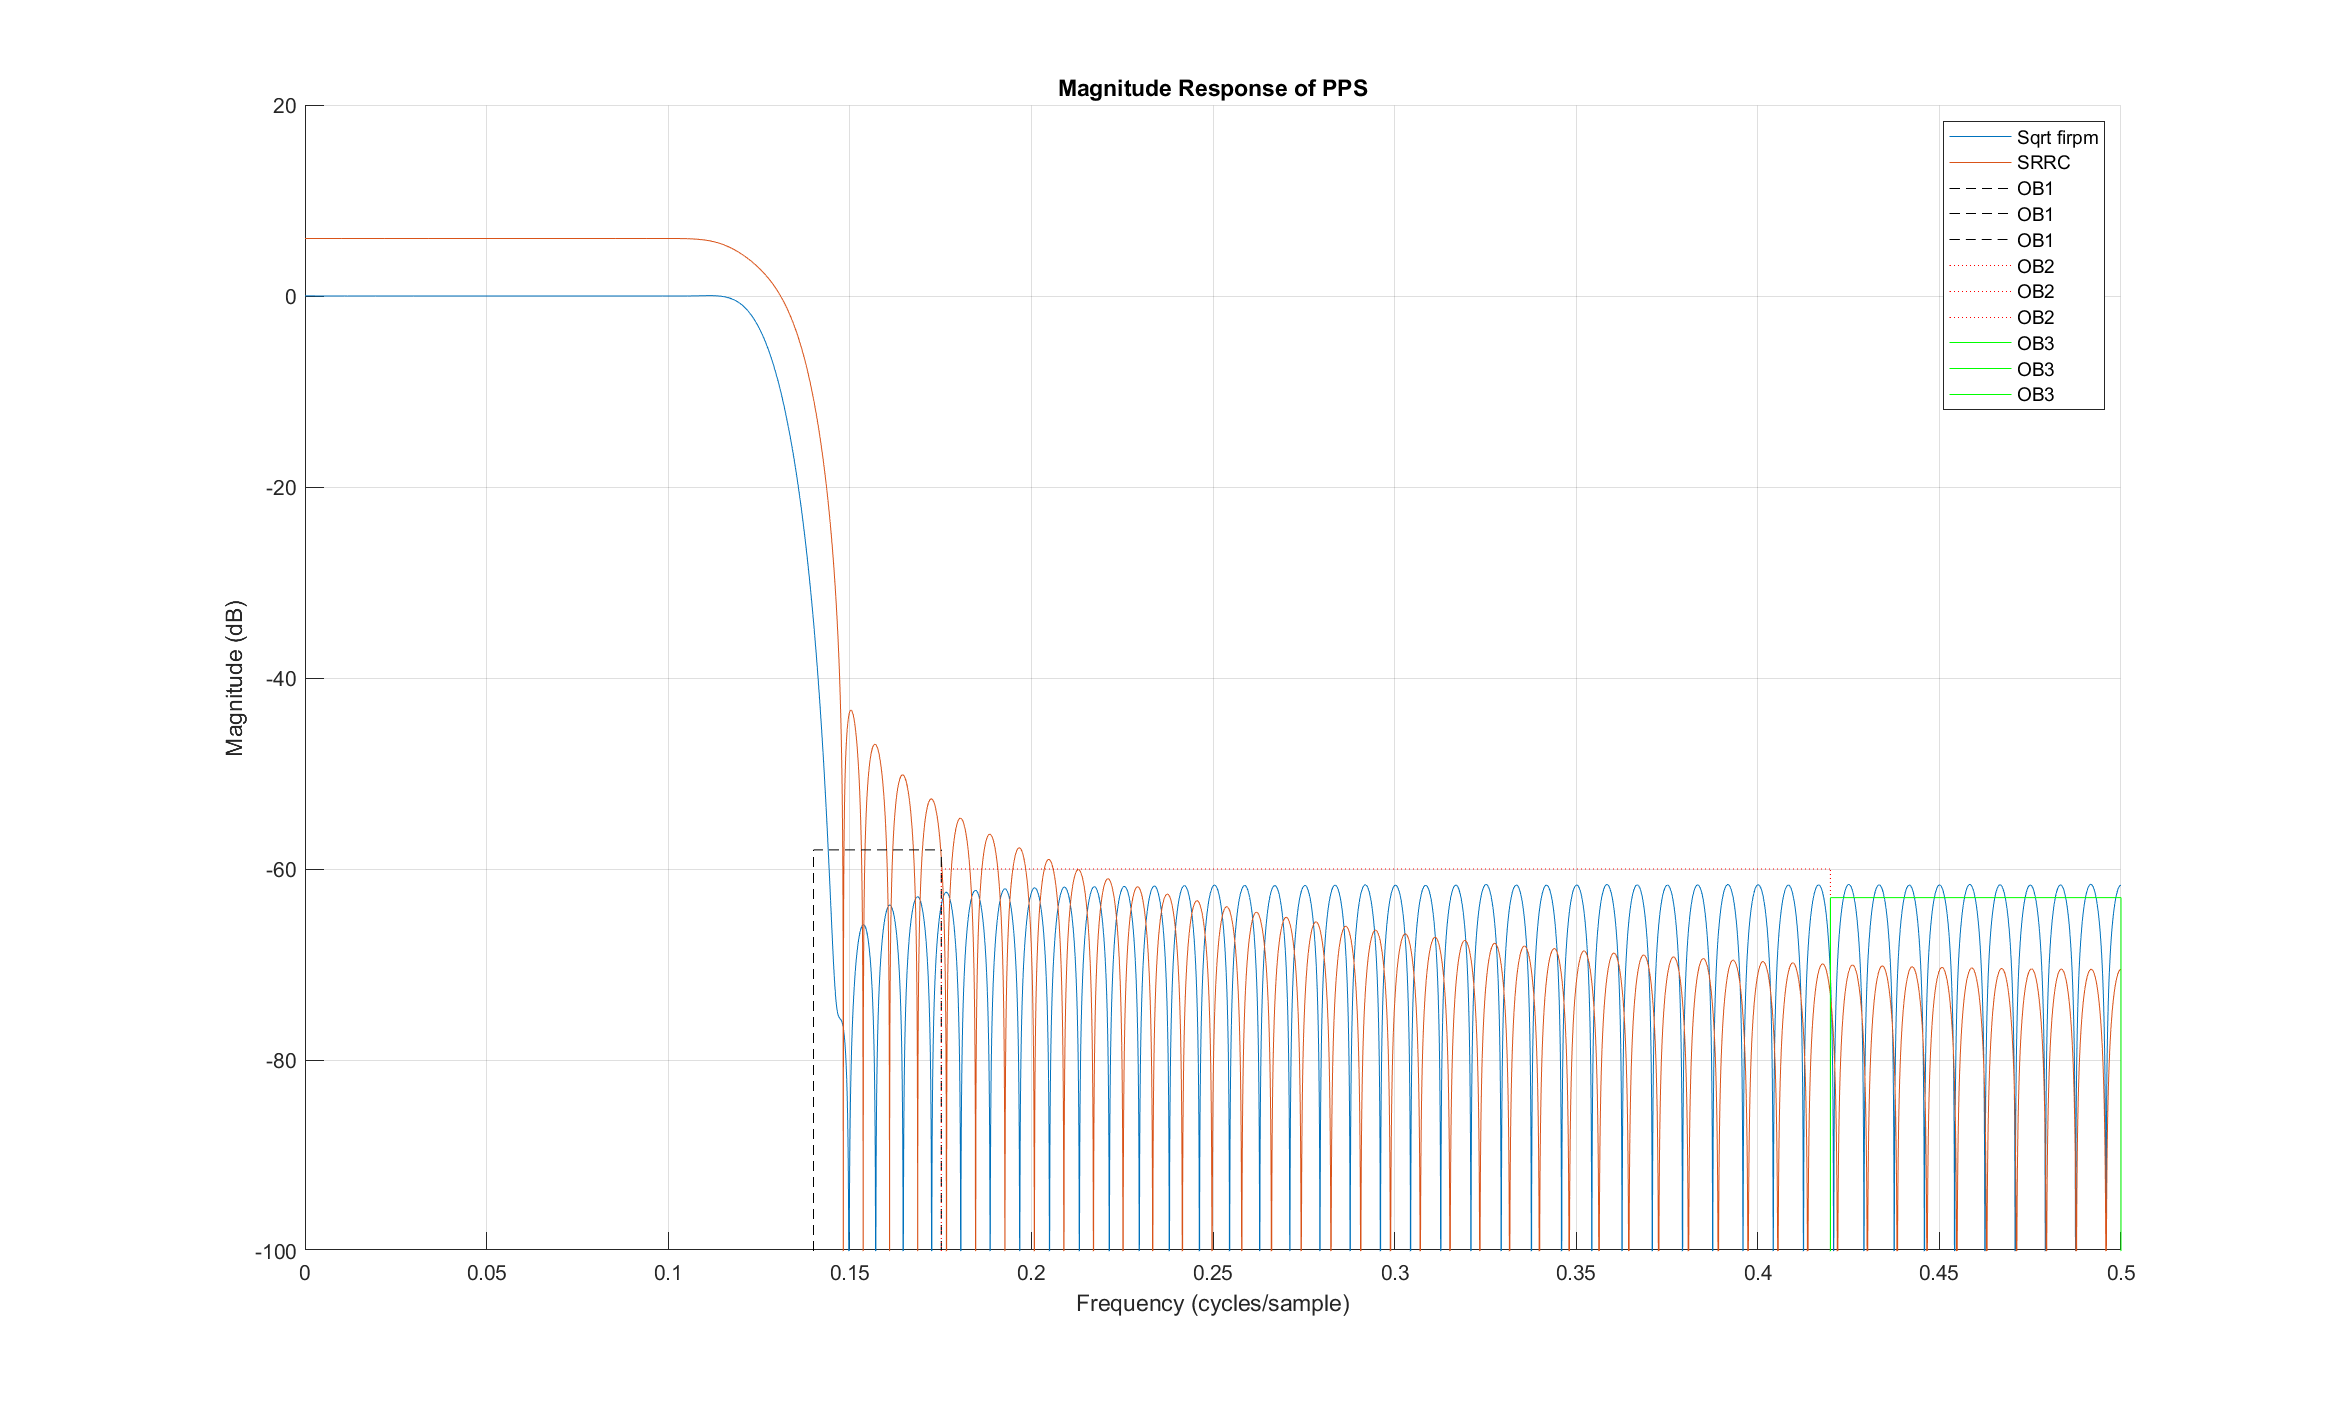
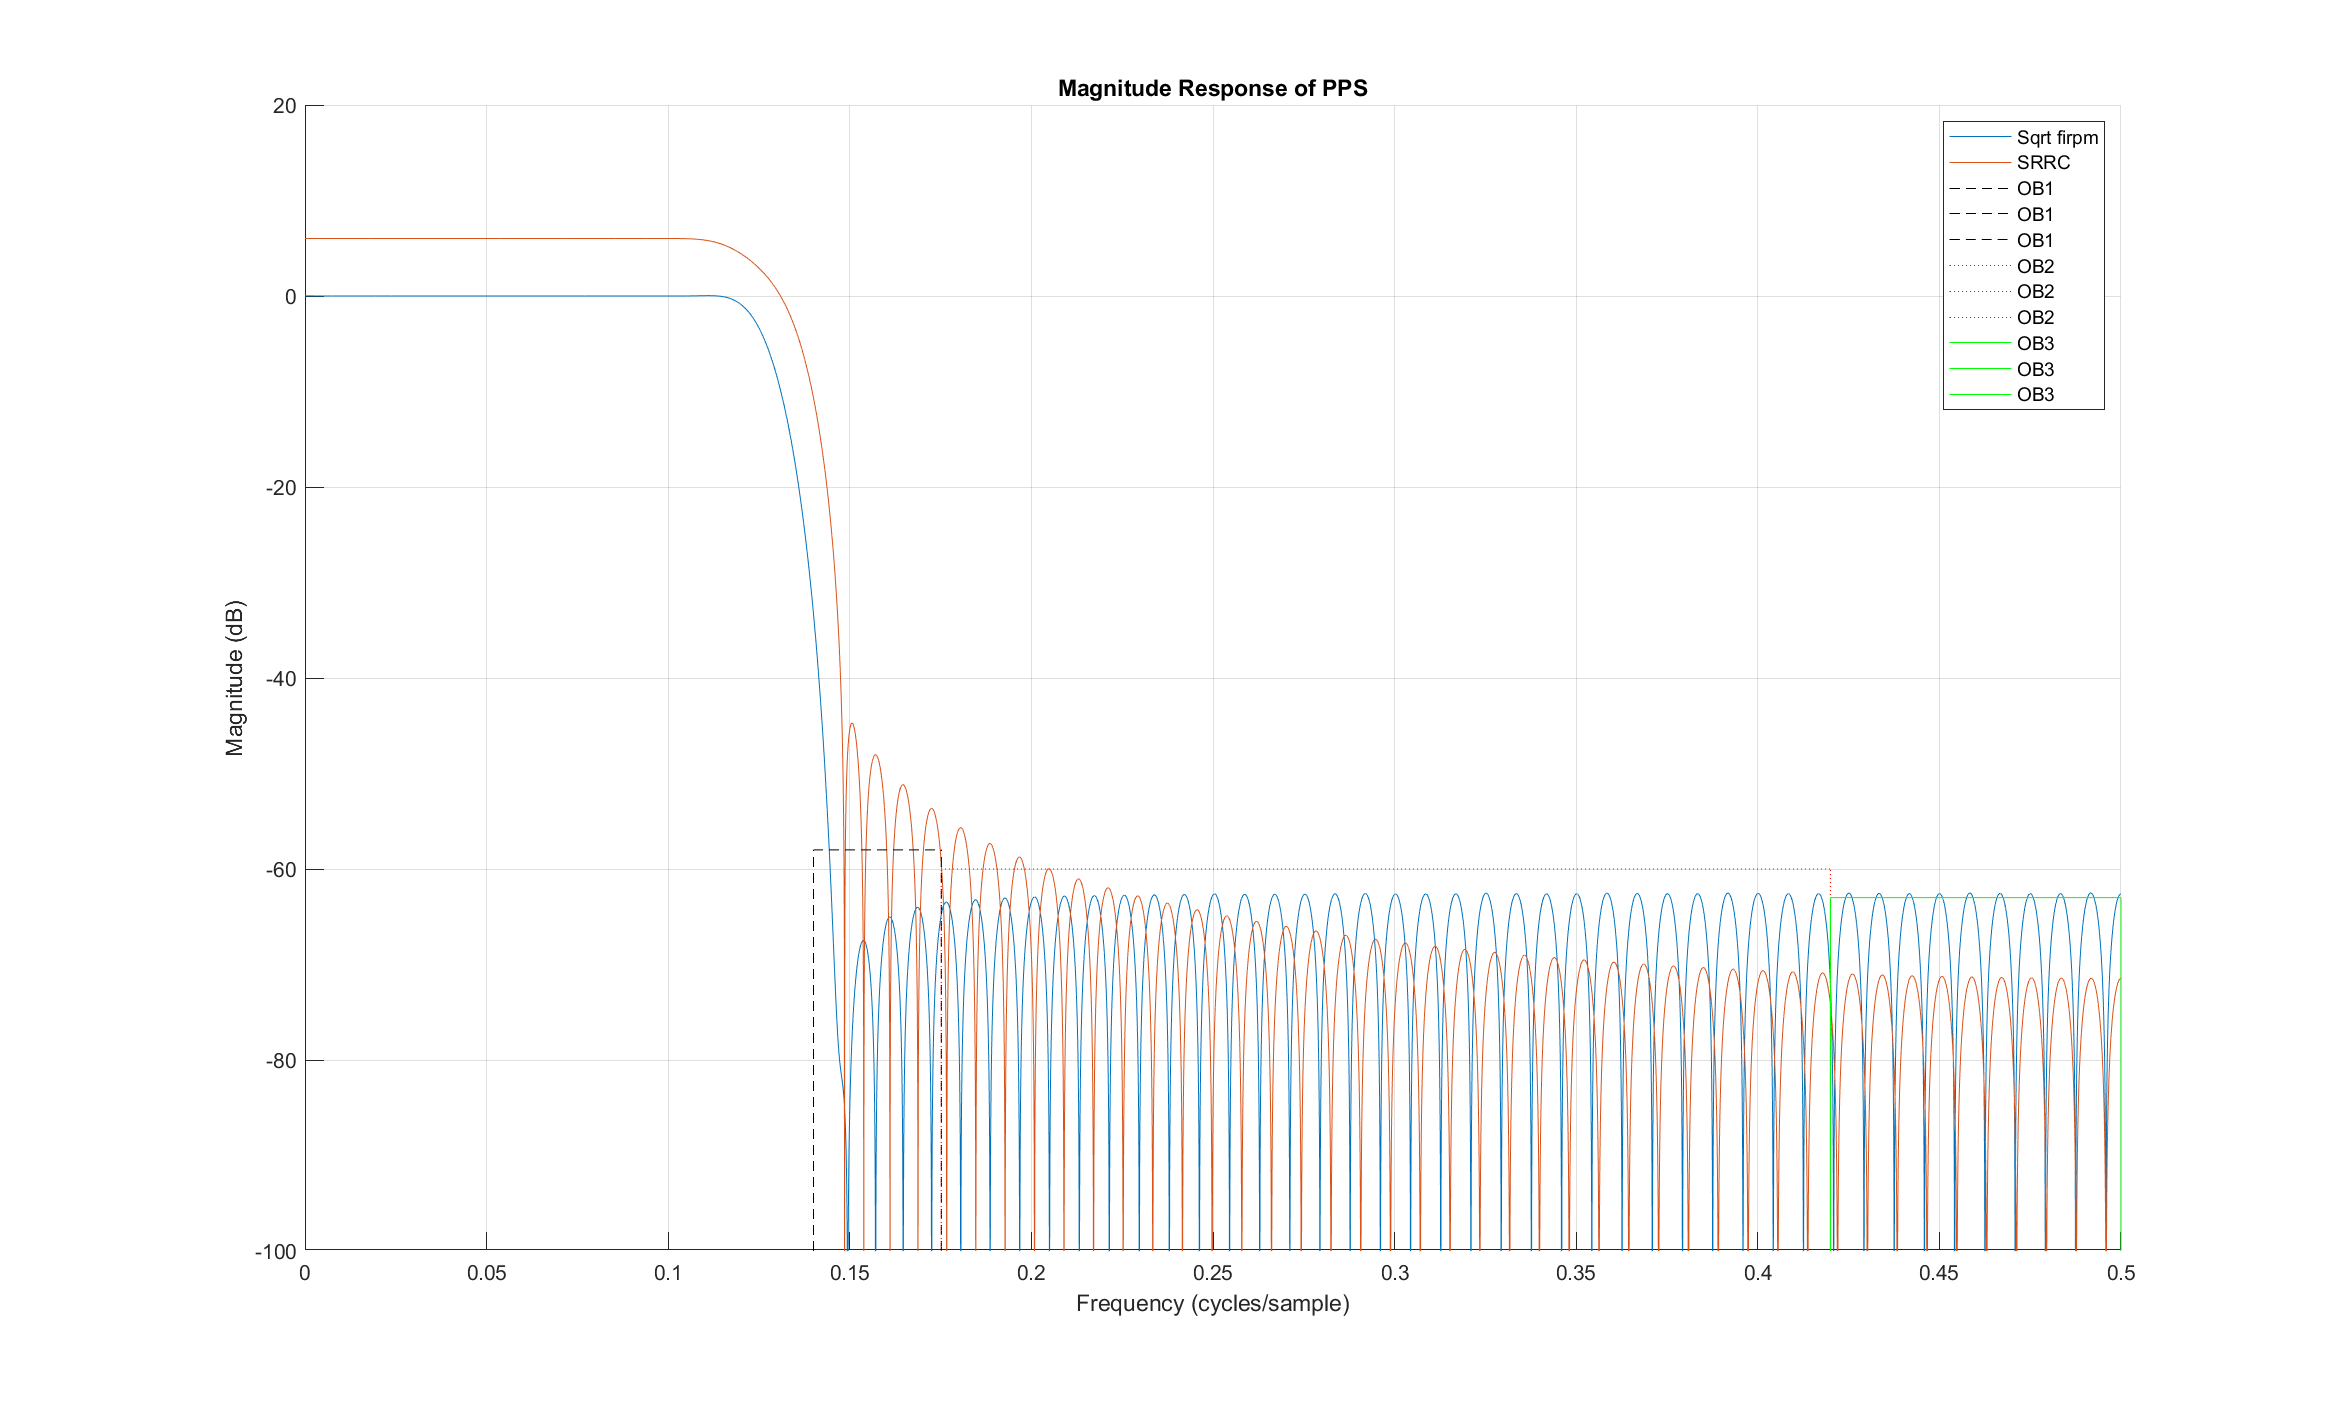
Working on designing polyphase PS filter
Working on designing polyphase PS filter

Changed region(s): [[0.3426, 0.4893, 0.9032, 0.8869]]

diff --git a/examples/matlab/example.m b/examples/matlab/example.m
@@ -83,9 +83,9 @@ vec = [9 129];
 % fprintf(fileID,'%10.6f %10.6f %10.6f %8.0f\r\n',A);
 % fclose(fileID);
 
-c_idx = find(coeff_out==121);
-max_121 = max(MER_out(c_idx(1):c_idx(end)));
-desired_121 = find(MER_out>=54.0679);
+% c_idx = find(coeff_out==121);
+% max_121 = max(MER_out(c_idx(1):c_idx(end)));
+% desired_121 = find(MER_out>=54.0679);
 
 DONE = ones(10,1);
 finish = sum(DONE(1:5));
@@ -100,69 +100,6 @@ finish = sum(DONE(1:5));
 % pk = 0.99924965776672958;
 % 
 % 10*log10(pk^2/sum(den.^2));
-
-%% Testing stuff
-close all
-clc
-clear
-
-x=(-10:0.1:10);
-xs=x(x>-4 & x<4);
-slope = @(var) var+1;
-figure;
-hold on;
-% area(xs,normpdf(xs,0,3));
-% plot(x,normpdf(x,0,3));
-plot(x,slope(x));
-area(xs,slope(xs));
-ar = integral(slope,-4,4);
-hold off
-
-samples = 100;
-% length of filter
-N = 21;
-% Order of filter
-M = N-1;
-% Number of symbols per sample OR Nsps
-Nsps = 4;
-% length of the pulse
-span = M/Nsps;
-% beta or excess bandwidth
-beta = 0.25;
-% Frequency vector (radians/sample)
-w = [0:1:samples]/samples*pi;
-% stopband frequency (cycles/sample)
-fs = 0.2;
-
-% compute IR
-h_rcv = rcosdesign(beta,span,Nsps);
-% FR
-H_rcv = freqz(h_rcv,1,w);
-abs_H = real(20*log10(abs(H_rcv)));
-fun = @(x) abs_H(x)-20*log10(min(abs(H_rcv))) ;
-funw = @(x) w(x);
-samp = find(w/2/pi >= fs);
-
-figure(2);
-hold on
-plot( w/2/pi,20*log10(abs(H_rcv))-20*log10(min(abs(H_rcv))));
-% plot( w/2/pi,20*log10(abs(H_rcv)));
-% figure(2)
-area( funw(samp)/2/pi, abs_H(samp(1):samp(end))-20*log10(min(abs(H_rcv))) );
-hold off
-% % stopband frequency (cycles/sample)
-% fs = 0.2;
-Xs = 0:pi/5:pi;
-Ys = sin(Xs');
-wuut = Xs';
-% Q = cumtrapz(Xs,Ys)
-% zeropad = zeros( 
-% plot(funw(samp)/2/pi,fun)
-% QQ = cumtrapz([0.2:0.5]*2*pi,abs_H-20*log10(min(abs(H_rcv))));
-% QQ = cumtrapz([0.2:0.5]*2*pi,abs_H);
-
-% convert to linear units; sum them; convert back to dB
-sum( 10.^(0.1.*(20.*log10(abs(H_rcv(41:101)))) ))
 
 %% Measuring OOB requirements
 clear 
@@ -189,8 +126,9 @@ GSM = rcosdesign(beta,span,Nsps);
 As = 60;
 b = 0.1102*(As-8.7);
 
-% for bk = 2.057:0.0001:2.058
-for bk = 2.057:0.001:2.057
+% for bk = 2.047:0.001:2.263
+% for bk = 2.057:0.001:2.057
+for bk = 2.202:0.001:2.202
     wn = kaiser(length(GSM), bk);
     h_TX = GSM.*wn.';
     h_GSM = GSM;
@@ -383,3 +321,18 @@ N = 4;
 C_text = textscan(fileID,formatSpec,N);
 C_data0 = textscan(fileID,'%f %f %f %f');
 fclose(fileID);
+
+%% Designing polyphase filter
+clear;close all;clc; load('validLen.mat');
+
+beta=0.12; N=21; Nsps=4; span=(N-1)/4;
+
+% rcv = rcosdesign(beta,span, Nsps);
+load('rcv.mat');
+worse_case_output = sum(abs(rcv));
+scaling = (1-2^-17)/worse_case_output;
+rcv_1s17=round( rcv*scaling*2^17 );tx=rcv;
+
+sym_mults=round(length(rcv)/2);
+poly_mults=sym_mults/Nsps;
+
